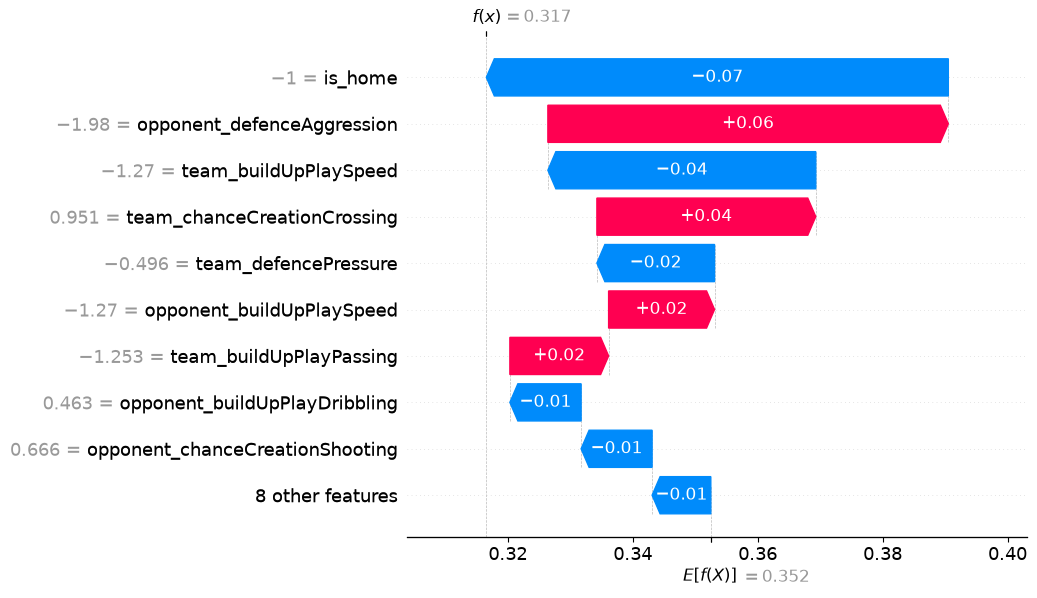
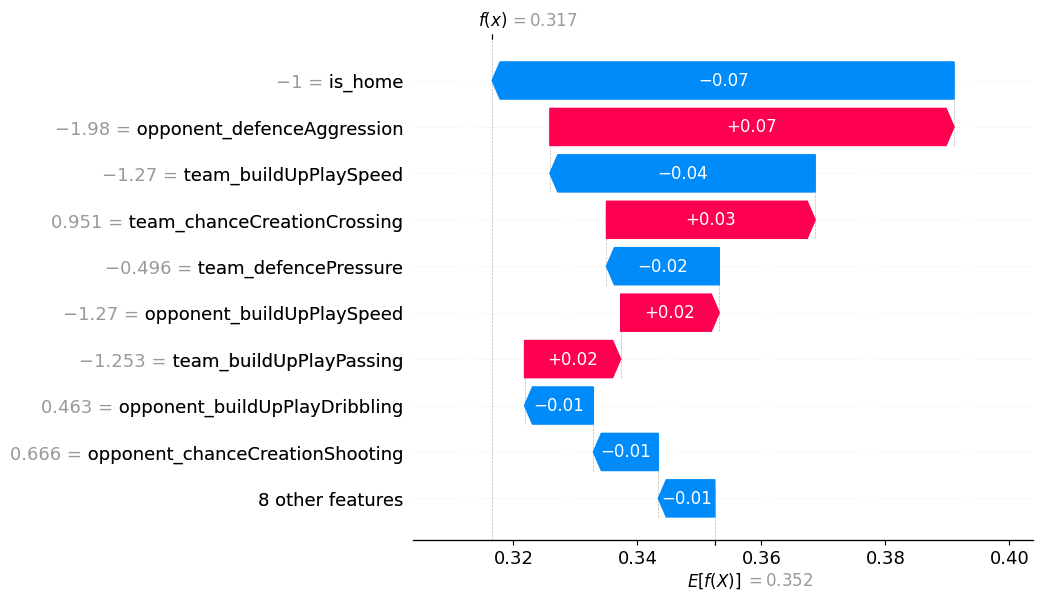
xai on opca and non pca components for comaprison

diff --git a/models/train_nn_pca_xai_model.py b/models/train_nn_pca_xai_model.py
@@ -1,0 +1,82 @@
+import pandas as pd
+import numpy as np
+import matplotlib.pyplot as plt
+import shap
+from sklearn.neural_network import MLPClassifier
+from sklearn.metrics import accuracy_score
+import json
+import os
+
+print("Loading PCA-reduced data...")
+# Get the absolute path to the directory containing this script
+script_dir = os.path.dirname(os.path.abspath(__file__))
+preproc_dir = os.path.join(script_dir, '..', 'pre-processing')
+results_dir = os.path.join(script_dir, 'results')
+os.makedirs(results_dir, exist_ok=True)
+
+X_train = pd.read_csv(os.path.join(preproc_dir, 'X_train_pca.csv'))
+X_test  = pd.read_csv(os.path.join(preproc_dir, 'X_test_pca.csv'))
+y_train = pd.read_csv(os.path.join(preproc_dir, 'y_train.csv')).values.ravel()
+y_test  = pd.read_csv(os.path.join(preproc_dir, 'y_test.csv')).values.ravel()
+
+print(f"Training features shape: {X_train.shape}")
+print("Training Neural Network (MLPClassifier) on PCA data...")
+nn = MLPClassifier(hidden_layer_sizes=(100,), max_iter=500, random_state=42, early_stopping=True)
+nn.fit(X_train, y_train)
+
+y_pred = nn.predict(X_test)
+acc = accuracy_score(y_test, y_pred)
+print(f"Neural Network Test Accuracy: {acc:.4f}")
+
+result = {
+    "model": "Neural Network (PCA XAI)",
+    "test_accuracy": round(acc, 4)
+}
+with open(os.path.join(script_dir, 'nn_pca_xai_result.json'), 'w') as f:
+    json.dump(result, f, indent=2)
+
+print("\nGenerating SHAP Explanations using KernelExplainer...")
+# We use a small subset of test data for SHAP to save computation time
+X_test_sample = X_test.sample(n=100, random_state=42)
+
+win_index = list(nn.classes_).index(1)
+
+def predict_win_prob(x):
+    return nn.predict_proba(x)[:, win_index]
+
+# Summarize the background data with k-means to speed it up
+background = shap.kmeans(X_train, 10)
+explainer = shap.KernelExplainer(predict_win_prob, background)
+
+# Get SHAP values
+print("Calculating SHAP values (this may take a bit longer)...")
+shap_values_array = explainer.shap_values(X_test_sample)
+
+# 1. Global Summary Plot
+print("Saving Global Summary Plot (Beeswarm)...")
+plt.figure()
+shap.summary_plot(np.array(shap_values_array), X_test_sample, show=False)
+plt.savefig(os.path.join(results_dir, 'shap_nn_pca_summary_plot.png'), bbox_inches='tight')
+plt.close()
+
+# 2. Local Waterfall Plot for a single match (First instance in our sample)
+print("Saving Local Match Explanation (Waterfall Plot)...")
+
+# Construct an Explanation object for the waterfall plot
+expected_val = explainer.expected_value
+if isinstance(expected_val, (np.ndarray, list)):
+    expected_val = expected_val[0]
+
+explanation = shap.Explanation(
+    values=shap_values_array[0],
+    base_values=expected_val,
+    data=X_test_sample.iloc[0].values,
+    feature_names=X_test_sample.columns.tolist()
+)
+
+plt.figure(figsize=(10, 6))
+shap.waterfall_plot(explanation, show=False)
+plt.savefig(os.path.join(results_dir, 'shap_nn_pca_local_match.png'), bbox_inches='tight')
+plt.close()
+
+print("All XAI tasks completed successfully!")
